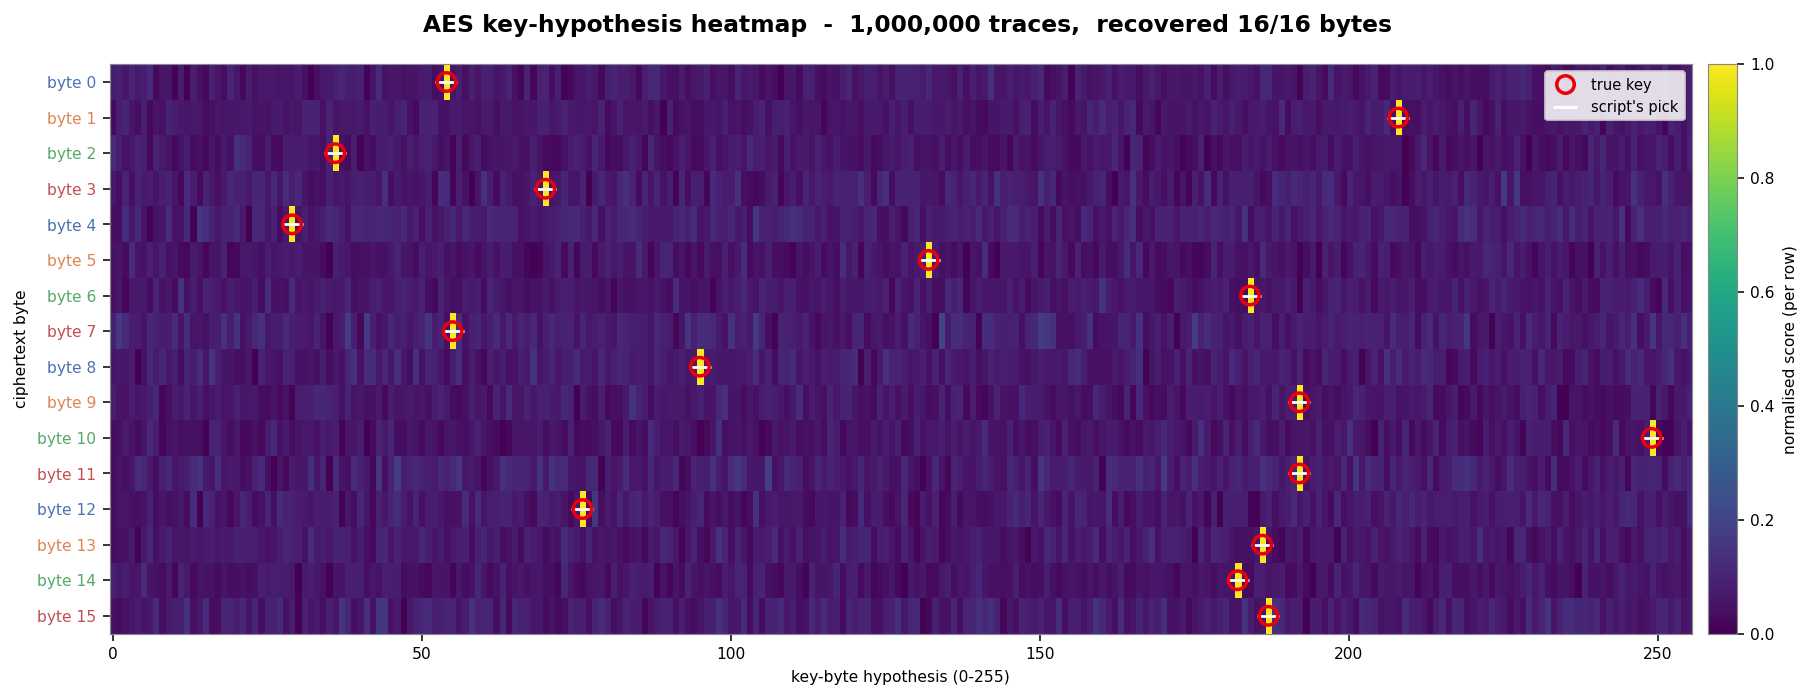
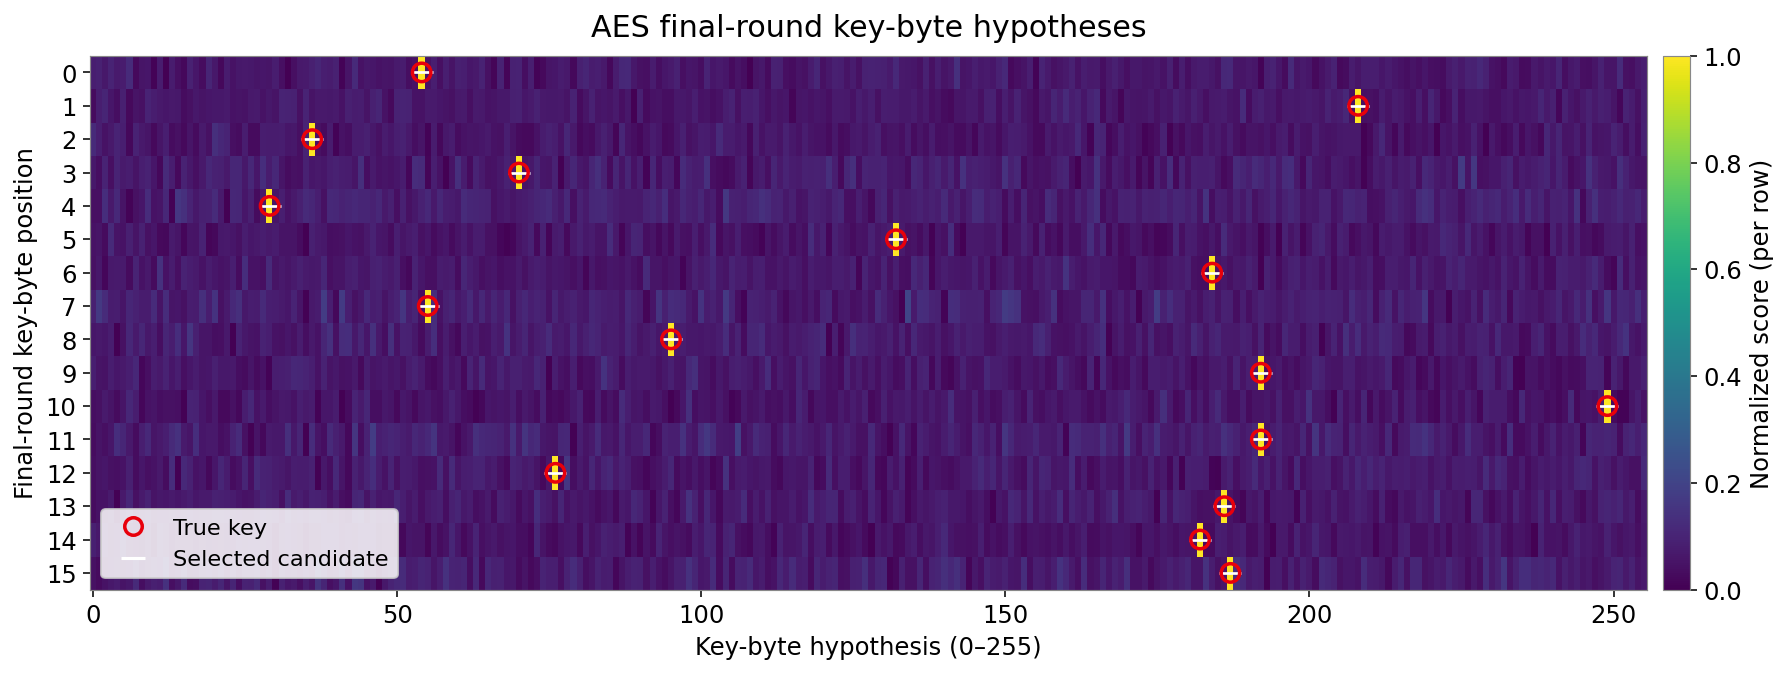
plot improvements

diff --git a/read_aes_results.py b/read_aes_results.py
@@ -54,7 +54,6 @@ SBOX = [
 
 RCON = [0x00, 0x01, 0x02, 0x04, 0x08, 0x10, 0x20, 0x40, 0x80, 0x1B, 0x36]
 
-GROUP_COLORS = ["#4C72B0", "#DD8452", "#55A868", "#C44E52"]   # ciphertext-byte groups 0..3
 BYTE_COLORS = ["#1f77b4", "#ff7f0e", "#2ca02c", "#d62728"]    # the 4 bytes within a subplot
 
 KEY_HEATMAP_OUTPUT = "./results/aes_key_hypotheses.png"
@@ -118,42 +117,34 @@ def estimate(matrices):
     return col_max, indep_set, indep_key
 
 
-def make_key_heatmap(matrices, indep_set, indep_key, n_rows, title, output_path, true_k10=None):
+def make_key_heatmap(matrices, indep_set, indep_key, output_path, true_k10=None):
     """Per-byte key-hypothesis scores, each row taken at that byte's own best table set."""
     profile = np.vstack([matrices[i][:, indep_set[i]] for i in range(16)])
     norm = ((profile - profile.min(1, keepdims=True))
             / (profile.max(1, keepdims=True) - profile.min(1, keepdims=True) + 1e-12))
 
-    plt.rcParams.update({"font.size": 8, "axes.edgecolor": "#888", "axes.linewidth": .6,
+    plt.rcParams.update({"font.size": 12.5, "axes.edgecolor": "#888", "axes.linewidth": .6,
                          "figure.facecolor": "white"})
     fig, ax = plt.subplots(figsize=(13, 5))
     image = ax.imshow(norm, aspect="auto", cmap="viridis")
 
     ax.scatter(indep_key, range(16), marker="_", s=120, color="w", lw=1.4)
-    handles = [Line2D([], [], marker="_", color="w", mew=1.6, ls="", ms=12, label="script's pick")]
+    handles = [Line2D([], [], marker="_", color="w", mew=1.6, ls="", ms=12, label="Selected candidate")]
     n_correct = None
     if true_k10 is not None:
         ax.scatter(true_k10, range(16), marker="o", s=90,
                    facecolors="none", edgecolors="#E8000B", lw=1.8)
         handles.insert(0, Line2D([], [], marker="o", mfc="none", mec="#E8000B", mew=1.8,
-                                 ls="", ms=9, label="true key"))
+                                 ls="", ms=9, label="True key"))
         n_correct = int(sum(indep_key[i] == int(true_k10[i]) for i in range(16)))
 
-    ax.legend(handles=handles, loc="upper right", framealpha=.85, fontsize=7.5)
+    ax.legend(handles=handles, loc="lower left", framealpha=.85, fontsize=11.5)
     ax.set_yticks(range(16))
-    ax.set_yticklabels([f"byte {i}" for i in range(16)])
-    for i in range(16):
-        ax.get_yticklabels()[i].set_color(GROUP_COLORS[i % 4])
-    ax.set_xlabel("key-byte hypothesis (0-255)")
-    ax.set_ylabel("ciphertext byte")
-    fig.colorbar(image, ax=ax, fraction=.025, pad=.01).set_label("normalised score (per row)")
+    ax.set_xlabel("Key-byte hypothesis (0–255)")
+    ax.set_ylabel("Final-round key-byte position")
+    fig.colorbar(image, ax=ax, fraction=.025, pad=.01).set_label("Normalized score (per row)")
 
-    suptitle = f"AES key-hypothesis heatmap  -  {n_rows:,} traces"
-    if n_correct is not None:
-        suptitle += f",  recovered {n_correct}/16 bytes"
-    if title:
-        suptitle = f"{title}:  " + suptitle
-    fig.suptitle(suptitle, fontsize=12, fontweight="bold")
+    ax.set_title("AES final-round key-byte hypotheses", fontsize=15.5, pad=10)
 
     fig.tight_layout()
     fig.savefig(output_path, dpi=140, bbox_inches="tight")
@@ -244,17 +235,27 @@ def make_recovery_curve(points, output_path):
     ax.set_yticks(range(0, 17, 2))
     ax.axhline(16, color="#888", lw=0.8, ls=":")
     ax.grid(True, which="both", alpha=0.25)
-    ax.set_xlabel("number of encryptions (prefix of the capture)")
-    ax.set_ylabel("correctly recovered key bytes (of 16)")
-    ax.set_title("AES key bytes recovered vs. number of encryptions\n"
-                 "(recovery from one capture's prefixes; not a success rate)")
+    ax.set_xlabel("Number of encryptions")
+    ax.set_ylabel("Correct final-round key bytes")
+    ax.set_title("AES key recovery versus number of encryptions")
+
+    # Mark the first tested count that reaches full recovery.
+    first16 = next((x for x, y in points if y == 16), None)
+    if first16 is not None:
+        num = f"{first16:,}".replace(",", "{,}")
+        ax.annotate(f"16/16 bytes at $N = {num}$",
+                    xy=(first16, 16), xytext=(first16 * 1.5, 11.0),
+                    ha="left", va="center", fontsize=8.5, color="#333",
+                    arrowprops=dict(arrowstyle="->", color="#C44E52", lw=1.3,
+                                    shrinkB=5))
+
     fig.tight_layout()
     fig.savefig(output_path, dpi=140, bbox_inches="tight")
     plt.close(fig)
     print(f"wrote {output_path}")
 
 
-def read_results(file_path, master_key_hex=None, limit=None, title="",
+def read_results(file_path, master_key_hex=None, limit=None,
                  key_heatmap_output=KEY_HEATMAP_OUTPUT,
                  table_location_output=TABLE_LOCATION_OUTPUT,
                  plot_recovery=False, recovery_curve_output=RECOVERY_CURVE_OUTPUT):
@@ -286,8 +287,7 @@ def read_results(file_path, master_key_hex=None, limit=None, title="",
     print('Original AES-128 master key (Round Key 0):')
     print(' '.join(f'{b:02X}' for b in k0_bytes))
 
-    make_key_heatmap(matrices, indep_set, indep_key, n_rows, title,
-                     key_heatmap_output, true_k10=true_k10)
+    make_key_heatmap(matrices, indep_set, indep_key, key_heatmap_output, true_k10=true_k10)
     make_table_location(col_max, indep_set, num_sets, table_location_output)
 
     if plot_recovery:
@@ -438,7 +438,6 @@ def main():
                         help="known 32-hex master key; adds true-key markers + recovered count")
     parser.add_argument("--limit", type=int, default=None,
                         help="use only the first N rows (subsample)")
-    parser.add_argument("--title", default="", help="optional prefix for the key-heatmap title")
     parser.add_argument("--heatmap-out", default=KEY_HEATMAP_OUTPUT,
                         help=f"key-hypothesis heatmap path (default: {KEY_HEATMAP_OUTPUT})")
     parser.add_argument("--table-out", default=TABLE_LOCATION_OUTPUT,
@@ -450,7 +449,7 @@ def main():
     parser.add_argument("--recovery-out", default=RECOVERY_CURVE_OUTPUT,
                         help=f"recovery-curve figure path (default: {RECOVERY_CURVE_OUTPUT})")
     args = parser.parse_args()
-    read_results(args.input_file, master_key_hex=args.key, limit=args.limit, title=args.title,
+    read_results(args.input_file, master_key_hex=args.key, limit=args.limit,
                  key_heatmap_output=args.heatmap_out, table_location_output=args.table_out,
                  plot_recovery=args.recovery_curve, recovery_curve_output=args.recovery_out)
 

diff --git a/read_results.py b/read_results.py
@@ -94,7 +94,7 @@ def save_heatmap(data, num_sets, num_lines, title, cbar_label, output_path, vmin
     fig.colorbar(im, ax=ax, label=cbar_label)
     ax.set_title(title)
     ax.set_xlabel("Cache set")
-    ax.set_ylabel("Number of accessed lines")
+    ax.set_ylabel("Victim cache lines accessed")
     ax.set_xticks(range(0, num_sets, 4))
     ax.set_yticks(range(0, num_lines + 1))
 
@@ -110,13 +110,13 @@ def read_results(file_path, absolute_output=ABSOLUTE_OUTPUT, normalized_output=N
 
     save_heatmap(
         heatmap_abs, num_sets, num_lines,
-        "Absolute average Prime+Probe time (per-set baseline dominates)",
-        "Average probe time", absolute_output,
+        "Prime+Probe response to synthetic victim accesses — absolute",
+        "Mean probe time (timer ticks)", absolute_output,
     )
     save_heatmap(
         heatmap_norm, num_sets, num_lines,
-        "Per-set normalized Prime+Probe heatmap (eviction signal)",
-        "Probe time above set's own baseline", normalized_output, vmin=0,
+        "Prime+Probe response to synthetic victim accesses — per-set normalized",
+        "Baseline-subtracted mean probe time (timer ticks)", normalized_output, vmin=0,
     )
 
 

diff --git a/README.md b/README.md
@@ -94,7 +94,6 @@ Options:
 - `input_file` — path to the `aes_pp` CSV (default `./results/raw/aes_results.csv`).
 - `--key <32-hex>` — the known master key. Adds true-key markers to the key-hypothesis heatmap and reports how many of the 16 bytes were recovered. Omit it and the figures still render, just without the ground-truth overlay (the recovery itself does not use the key).
 - `--limit N` — use only the first `N` traces (subsample).
-- `--title <text>` — prefix for the key-hypothesis heatmap title.
 - `--heatmap-out <path>` / `--table-out <path>` — override the figure output paths.
 - `--recovery-curve` — also plot recovered bytes vs. number of encryptions over prefixes of the capture (requires `--key`; slow, as it re-runs the attack per prefix). `--recovery-out <path>` overrides its output path.
 
